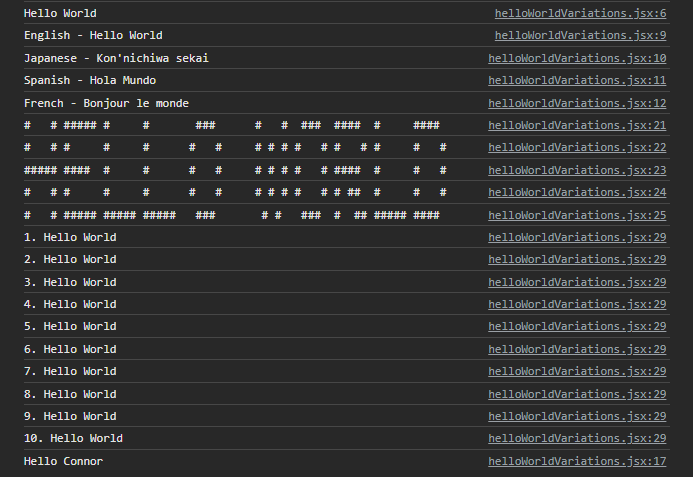
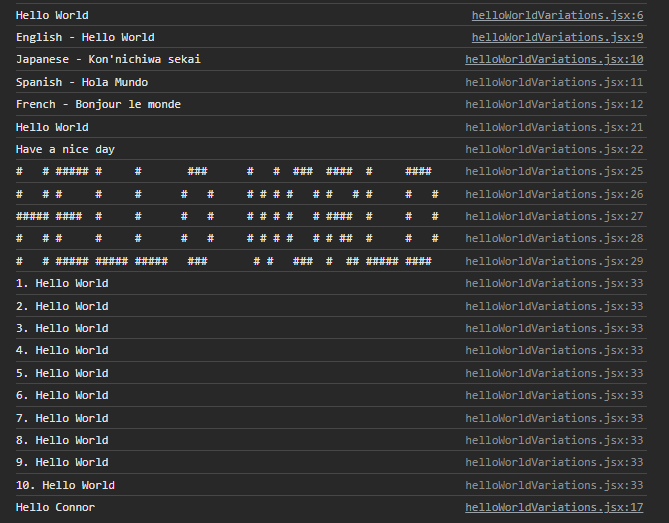
Added missing bit to beginner1 problem

Changed region(s): [[0.0, 0.0, 0.9865, 0.9979]]

diff --git a/src/Components/solutions/beginner/helloWorldVariations.jsx b/src/Components/solutions/beginner/helloWorldVariations.jsx
@@ -17,6 +17,10 @@ function Beginner1() {
     console.log("Hello " + nameValue.value);
   }
 
+  //Have a nice day
+  console.log("Hello World");
+  console.log("Have a nice day");
+
   //Create a picture
   console.log("#   # ##### #     #       ###      #   #  ###  ####  #     ####  ");
   console.log("#   # #     #     #      #   #     # # # #   # #   # #     #   # ");
@@ -91,6 +95,10 @@ function Beginner1() {
             <p>    var nameValue = document.getElementById("name");</p>
             <p>    console.log("Hello " + nameValue.value);</p>
             <p className="mb-16">&#125;</p>
+
+            <h3 className="lg:text-4xl text-2xl mb-4 text-center">Have a nice day!</h3>
+            <p>console.log("Hello World")</p>
+            <p className="mb-16">console.log("Have a nice day)</p>
 
             <h3 className="lg:text-4xl text-2xl mb-4 text-center">Create a picture</h3>
             <p className="lg:text-2xl text-xs mb-16">console.log("#   # ##### #     #       ###      #   #  ###  ####  #     ####  ");<br />
